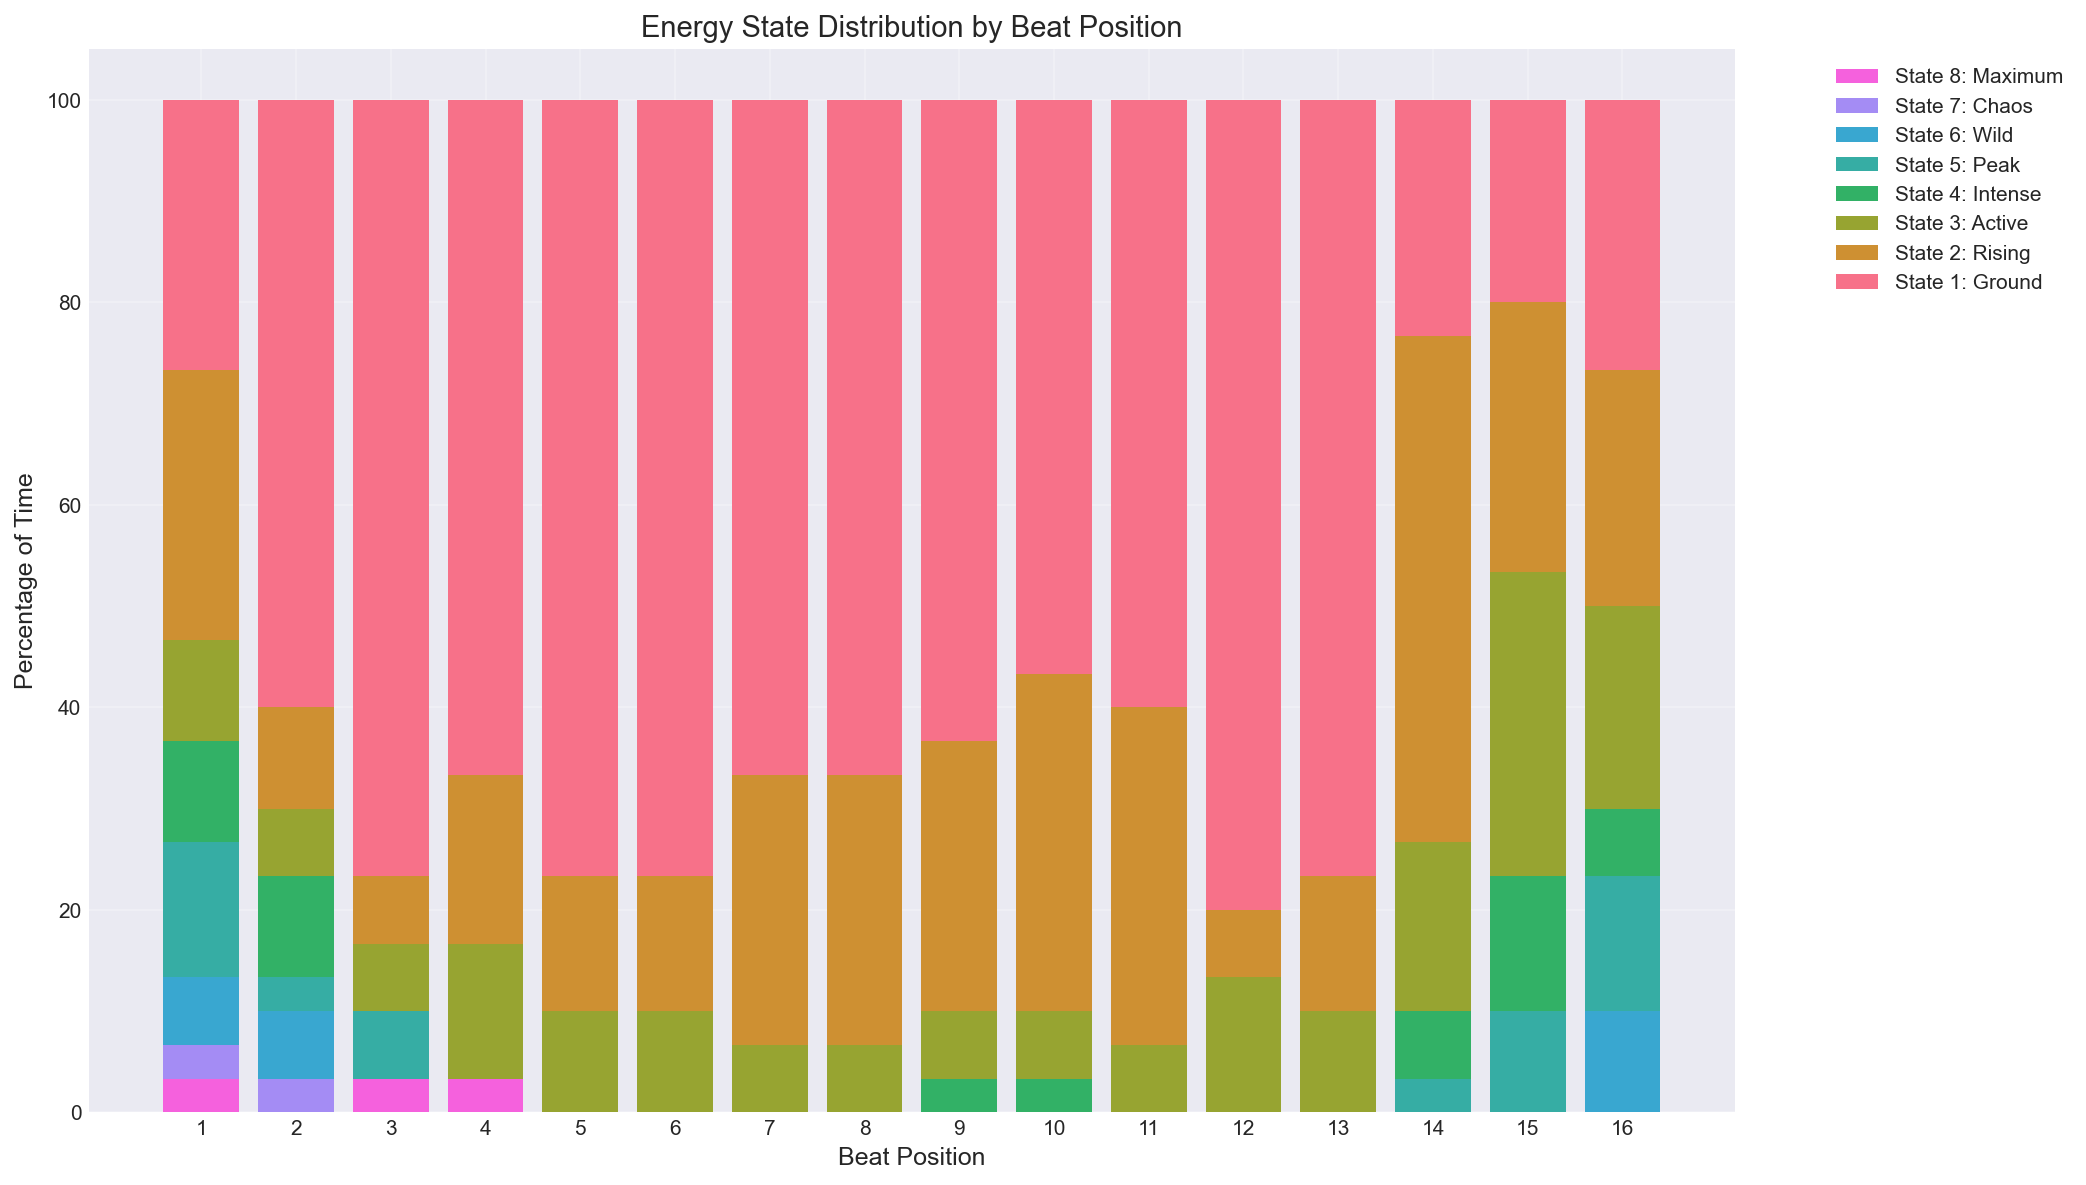
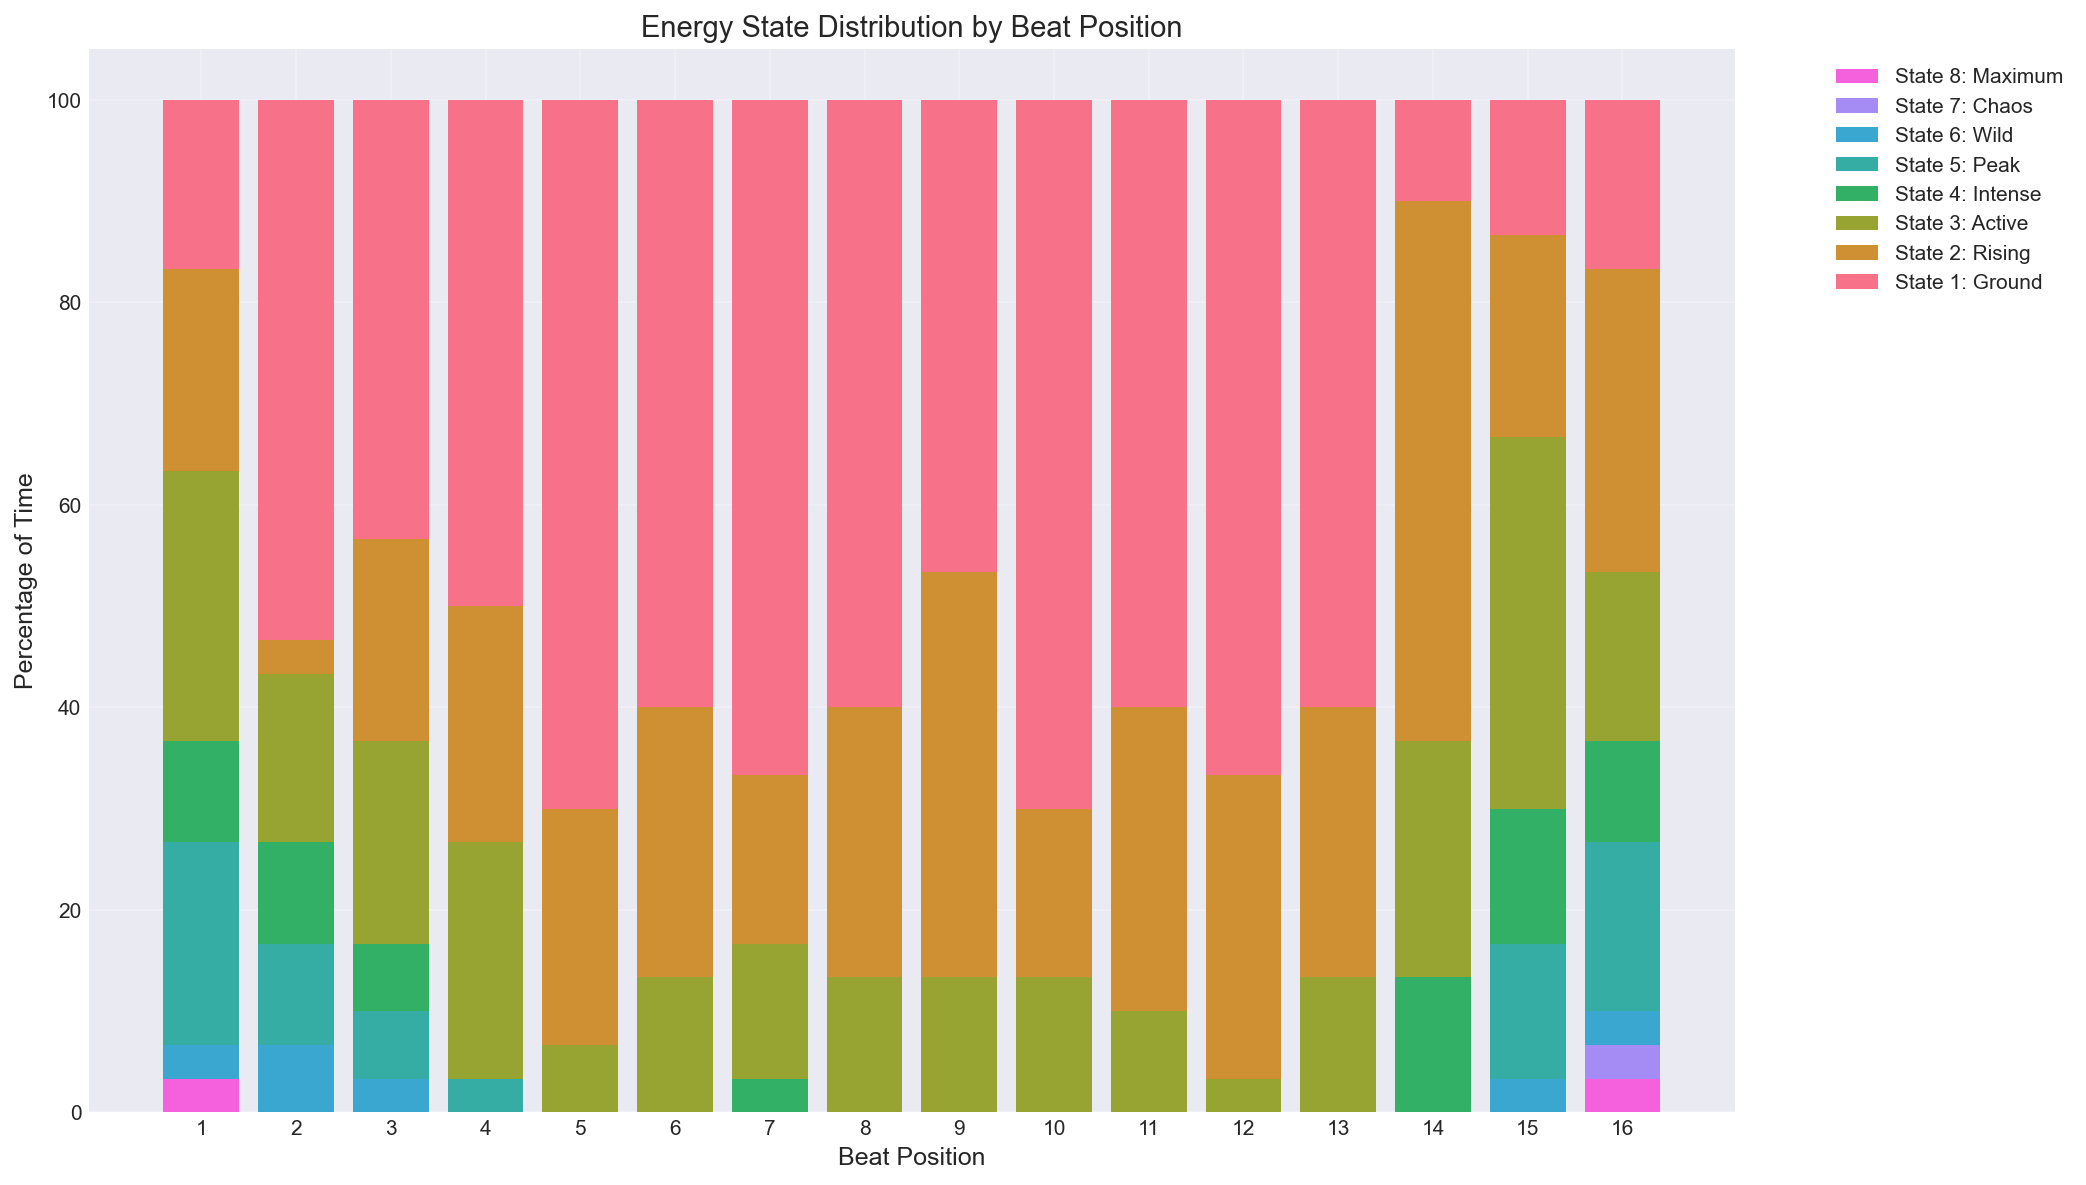
Regenerate figures for blog post
- New simulation run with dual matrix configuration
- Updated bohm_transitions.png and bohm_beat_distribution.png
- Shows ending states (14-16) with more diversity

🤖 Generated with [Claude Code](https://claude.ai/code)

diff --git a/app/posts/0009.md b/app/posts/0009.md
@@ -6,8 +6,8 @@ date: 2025-09-28
 I've been developing a quantum drum visualizer that uses energy states to generate rhythmic patterns. On the left is a screen shot of the application. On the right is a state transition diagram showing the probabilities of transitioning between different energy states.
 
 <div style="display: flex; align-items: center;">
-    <img src="/the-app.png" alt="Quantum Drum Visualizer" style="width: 30%; margin-right: 16px;" />
-    <img src="/bohm_transitions.png" alt="State Transitions" style="width: 30%;" />
+    <img src="/the-app.png" alt="Quantum Drum Visualizer" style="width: 20%; margin-right: 16px;" />
+    <img src="/bohm_transitions.png" alt="State Transitions" style="width: 50%;" />
 </div>
 
 ## State Distribution Analysis
